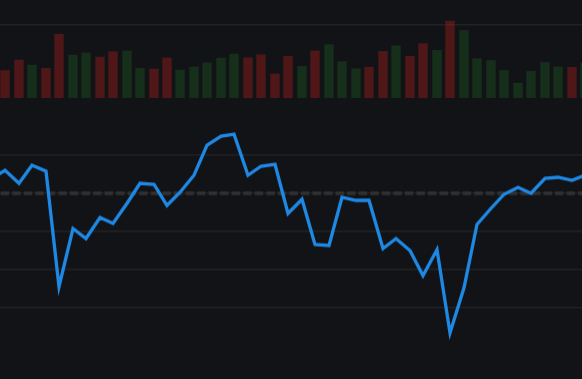
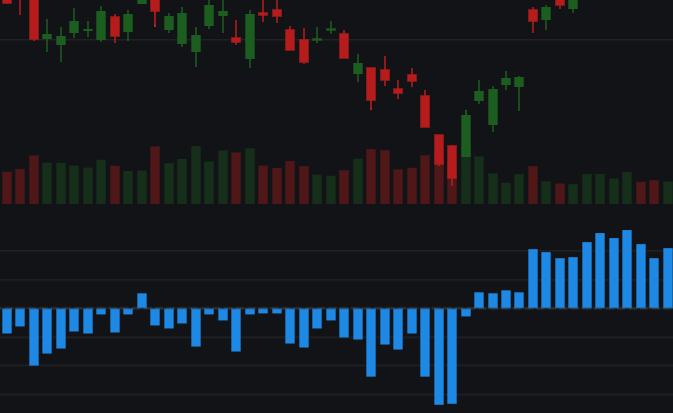
refactor: add custom chart, and modify price characteristics documentation

Changed region(s): [[0.0, 0.0, 1.0, 0.9868]]

diff --git a/docs/indicators/price-characteristics.md b/docs/indicators/price-characteristics.md
@@ -20,16 +20,16 @@ features:
       src: /assets/thumbs/indicators/bop.png
     link: /indicators/Bop
     details: Open-to-close balance ratio
-  - title: Bull and Bear Power
-    icon:
-      src: /assets/thumbs/indicators/elder-ray.png
-    link: /indicators/ElderRay
-    details: Elder-ray bull/bear index
   - title: Choppiness Index (CHOP)
     icon:
       src: /assets/thumbs/indicators/chop.png
     link: /indicators/Chop
     details: Directional choppiness measure
+  - title: Elder-ray bull/bear index
+    icon:
+      src: /assets/thumbs/indicators/elder-ray.png
+    link: /indicators/ElderRay
+    details: Depicts buying and selling pressure
   - title: Hilbert Transform Trendline
     icon:
       src: /assets/thumbs/indicators/ht-trendline2.png